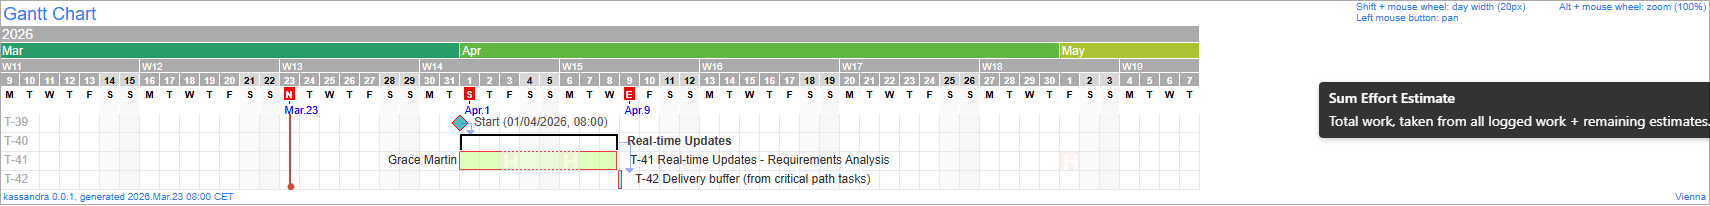
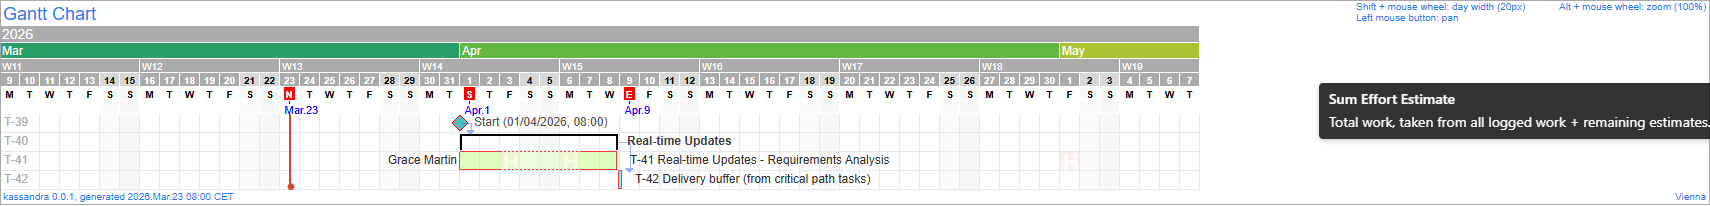
fixed GenerateScreenshotsIT.

diff --git a/src/test/java/de/bushnaq/abdalla/kassandra/ui/GenerateScreenshotsIT.java b/src/test/java/de/bushnaq/abdalla/kassandra/ui/GenerateScreenshotsIT.java
@@ -1164,6 +1164,7 @@ public class GenerateScreenshotsIT extends AbstractKeycloakUiTestUtil {
 //        aboutViewTester.logout();
         aboutViewTester.login(ACTIVE_SPRINT_USER_NAME, "password", null, testInfo.getTestClass().get().getSimpleName(), generateTestCaseName(testInfo));
         navigateTo(ActiveSprints.ROUTE);
+        seleniumHandler.waitForChartRendered(RenderUtil.GANTT_BURNDOWN_CHART);
         seleniumHandler.takeScreenShot(folder + "/active-sprints.png");
         takeActiveSprintsDialogScreenshots(folder);
 

diff --git a/README.md b/README.md
@@ -204,7 +204,7 @@ https://www.youtube.com/playlist?list=PL1FdjPuGzg7LDRGZeP6uQAPet1_fZePGs
 
 ![Active Spints](https://raw.githubusercontent.com/wiki/kunterbunt2/project-hub/light-screenshots/active-sprints.png)
 
-![Generate AI Image](https://raw.githubusercontent.com/wiki/kunterbunt2/project-hub/light-screenshots/image-prompt-dialog.png)
+![Generate AI Image](https://raw.githubusercontent.com/wiki/kunterbunt2/project-hub/light-screenshots/user-image-prompt-dialog.png)
 
 ![Dependency Dialog](https://raw.githubusercontent.com/wiki/kunterbunt2/project-hub/light-screenshots/dependency-dialog.png)
 
